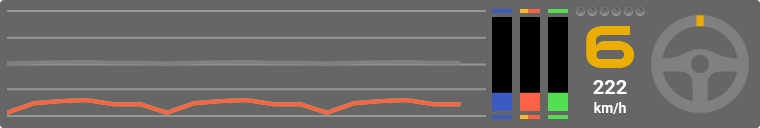
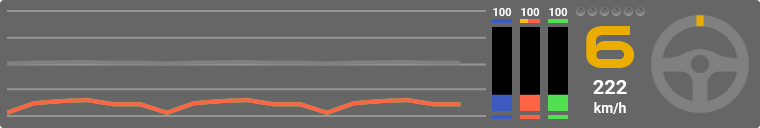
Added option to show pedals values to the Input Telemetry overlay.

Changed region(s): [[0.6355, 0.0625, 0.7566, 0.2188], [0.6355, 0.7188, 0.7566, 0.75], [0.6658, 0.9062, 0.6961, 0.9375]]

diff --git a/Plugin/SettingsControl.xaml b/Plugin/SettingsControl.xaml
@@ -452,12 +452,21 @@
                             <ui:TitledSlider MinWidth="400" Title="Traces Speed" Maximum="100" Minimum="0" Value="{Binding Plugin.Modules[TelemetryModule].Settings.TracesSpeed, Mode=TwoWay, UpdateSourceTrigger=PropertyChanged}" ToolTip="How fast the trace chart is scrolling" />
                         </StackPanel>
 
-                        <styles:SHToggleCheckbox 
-                            ToolTip="Show a bar graph for each pedal input" 
-                            HorizontalAlignment="Left" Margin="0,0,4,8"
-                            IsChecked="{Binding Plugin.Modules[TelemetryModule].Settings.PedalsVisible, Mode=TwoWay, UpdateSourceTrigger=PropertyChanged}">
-                            Show Pedals
-                        </styles:SHToggleCheckbox>
+                        <StackPanel Orientation="Horizontal">
+                            <styles:SHToggleCheckbox 
+                                ToolTip="Show a bar graph for each pedal input" 
+                                HorizontalAlignment="Left" Margin="0,0,4,8"
+                                IsChecked="{Binding Plugin.Modules[TelemetryModule].Settings.PedalsVisible, Mode=TwoWay, UpdateSourceTrigger=PropertyChanged}">
+                                Show Pedals
+                            </styles:SHToggleCheckbox>
+
+                            <styles:SHToggleCheckbox 
+                                ToolTip="Show the number value for each pedal input" 
+                                HorizontalAlignment="Left" Margin="10,0,4,8"
+                                IsChecked="{Binding Plugin.Modules[TelemetryModule].Settings.PedalsValuesVisible, Mode=TwoWay, UpdateSourceTrigger=PropertyChanged}">
+                                Show Pedals Values
+                            </styles:SHToggleCheckbox>
+                        </StackPanel>
 
                         <styles:SHToggleCheckbox 
                             ToolTip="Show a rotating steering wheel image" 

diff --git a/Plugin/Modules/Telemetry.cs b/Plugin/Modules/Telemetry.cs
@@ -31,6 +31,7 @@ namespace benofficial2.Plugin
         public bool SteeringTraceVisible { get; set; } = true;
         public bool GuideLinesVisible { get; set; } = true;
         public bool PedalsVisible { get; set; } = true;
+        public bool PedalsValuesVisible { get; set; } = true;
         public bool SteeringVisible { get; set; } = true;
         public bool GearAndSpeedVisible { get; set; } = true;
         public bool ShiftLightsVisible { get; set; } = true;
@@ -66,6 +67,7 @@ namespace benofficial2.Plugin
             plugin.AttachDelegate(name: "Telemetry.SteeringTraceVisible", valueProvider: () => Settings.SteeringTraceVisible);
             plugin.AttachDelegate(name: "Telemetry.GuideLinesVisible", valueProvider: () => Settings.GuideLinesVisible);
             plugin.AttachDelegate(name: "Telemetry.PedalsVisible", valueProvider: () => Settings.PedalsVisible);
+            plugin.AttachDelegate(name: "Telemetry.PedalsValuesVisible", valueProvider: () => Settings.PedalsValuesVisible);
             plugin.AttachDelegate(name: "Telemetry.PedalsLeft", valueProvider: () => PedalsLeft);
             plugin.AttachDelegate(name: "Telemetry.SteeringVisible", valueProvider: () => Settings.SteeringVisible);
             plugin.AttachDelegate(name: "Telemetry.SteeringLeft", valueProvider: () => SteeringLeft);
